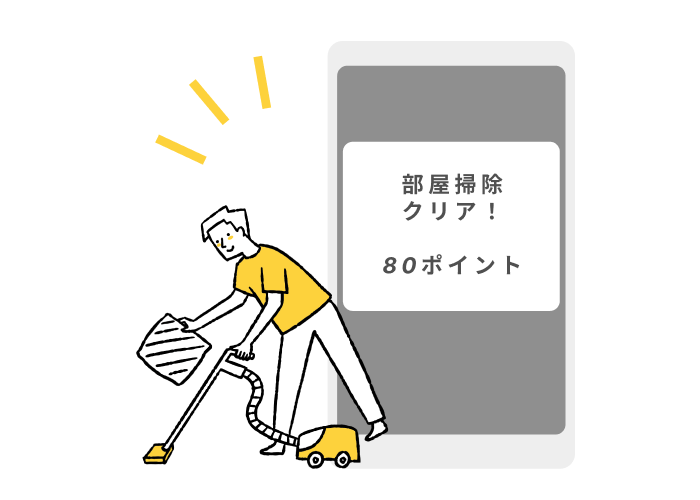
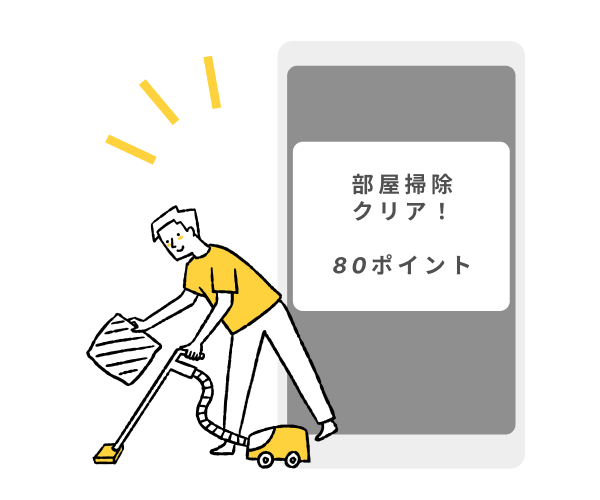
[fix]画像とアスペクト比の調整

diff --git a/lib/ui/view/top_view.dart b/lib/ui/view/top_view.dart
@@ -49,7 +49,7 @@ class _CarouselWithIndicatorState extends State<TopView> {
             ],
             carouselController: _controller,
             options: CarouselOptions(
-                aspectRatio: 0.95,
+                aspectRatio: 0.85,
                 initialPage: 0,
                 enableInfiniteScroll: true,
                 autoPlay: true,
@@ -71,7 +71,7 @@ class _CarouselWithIndicatorState extends State<TopView> {
                 child: Container(
                   width: 8.0,
                   height: 6.0,
-                  margin: EdgeInsets.symmetric(horizontal: 4.0),
+                  margin: const EdgeInsets.symmetric(horizontal: 4.0),
                   decoration: BoxDecoration(
                       shape: BoxShape.circle,
                       color: (Theme.of(context).brightness == Brightness.dark
@@ -185,7 +185,7 @@ class _AuthSection extends StatelessWidget {
               ),
             ),
           ),
-          verticalSpaceLarge,
+          verticalSpaceMediumLarge,
           Row(
             mainAxisAlignment: MainAxisAlignment.center,
             children: const [
@@ -198,7 +198,8 @@ class _AuthSection extends StatelessWidget {
                 style: TextStyle(fontWeight: FontWeight.bold, color: primaryColor),
               ),
             ],
-          )
+          ),
+          verticalSpaceSmall,
         ],
       ),
     );
